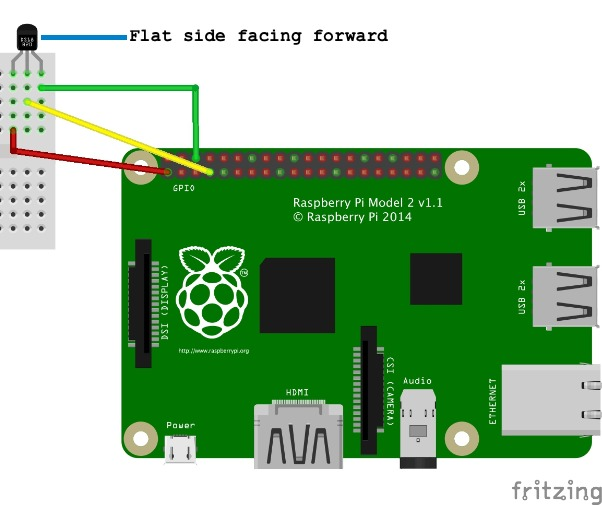
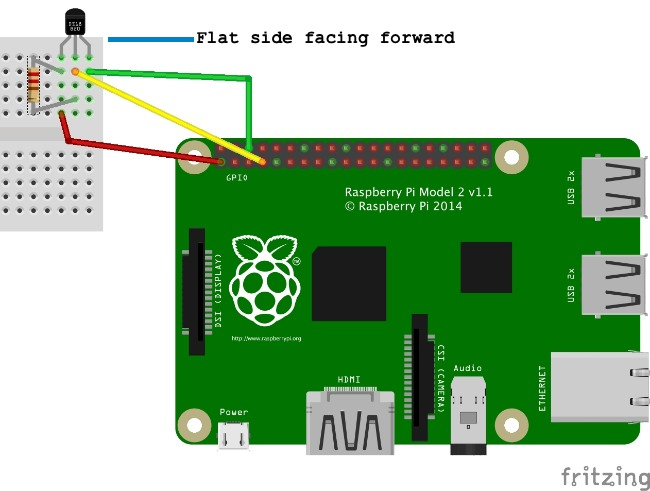
Include the pullup resistor

Changed region(s): [[0.0, 0.0, 1.0, 0.947], [0.6578, 0.4888, 0.8073, 0.611], [0.8372, 0.947, 1.0, 1.0]]

diff --git a/README.md b/README.md
@@ -22,6 +22,7 @@ The following wiring illustration shows how to position the temperature sensor o
 * Red wire goes from the 3V header pin to the leftmost leg of the temperature sensor
 * Yellow wire goes from the GPIO#4 pin to the center leg of the temperature sensor
 * Green wire goes from the GND header pin rightmost leg of the temperature sensor
+* Place a 4.7k pull up resistor from the row with the read 3v wire to the row with the yellow GPIO#4 wire. This ensures the GPIO#4 pin does not float when there is no sensor output.
 
 ![WiringDiagram](./images/DS18B20_bb.jpg)
 
